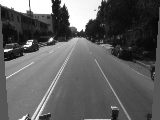
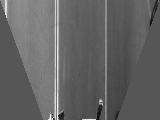
realized IPM

diff --git a/caltech-lanes-dataset/caltech-lane-detection/src/IPM.cpp b/caltech-lanes-dataset/caltech-lane-detection/src/IPM.cpp
@@ -1,3 +1,15 @@
+/***
+Created by Rui Wang @ Tsinghua University
+08/14/2018
+-This file utilzes caltech dataset and performs Inverse Perspective Mapping on it
+-usage:
+input.png(RGB) -> IPM according to configs -> output.png(gray scale image)
+
+--NOTICE:
+to compile the project use the following command:
+g++ IPM.cpp InversePerspectiveMapping.cc mcv.cc -o a `pkg-config --libs opencv`
+***/
+
 #include <opencv2/opencv.hpp>
 #include <list>
 #include <vector>
@@ -59,9 +71,9 @@ int main(){
     // height of the camera in mm
     cameraInfo->cameraHeight = 2179.8; //# 393.7 + 1786.1
     // pitch of the camera
-    cameraInfo->pitch = 14.0;
+    cameraInfo->pitch = 14.0 * CV_PI / 180.0; // in radius!
     // yaw of the camera
-    cameraInfo->yaw  = 0.0;
+    cameraInfo->yaw  = 0.0 * CV_PI / 180.0;
     // imag width and height
     cameraInfo->imageWidth = 640;
     cameraInfo->imageHeight = 480;
@@ -69,6 +81,7 @@ int main(){
     // execute GetIPM, new image is ipm
     list<CvPoint>* out_pt = &outPixels;
     LaneDetector::mcvGetIPM(inImage, ipm, &ipmInfo, cameraInfo);
+    printf("Press any key to continue!\n");
     LaneDetector::SHOW_IMAGE(ipm, "IPM_image");
     cvConvertScale(ipm, ipm, 255);
     output_img = cvarrToMat(ipm);
